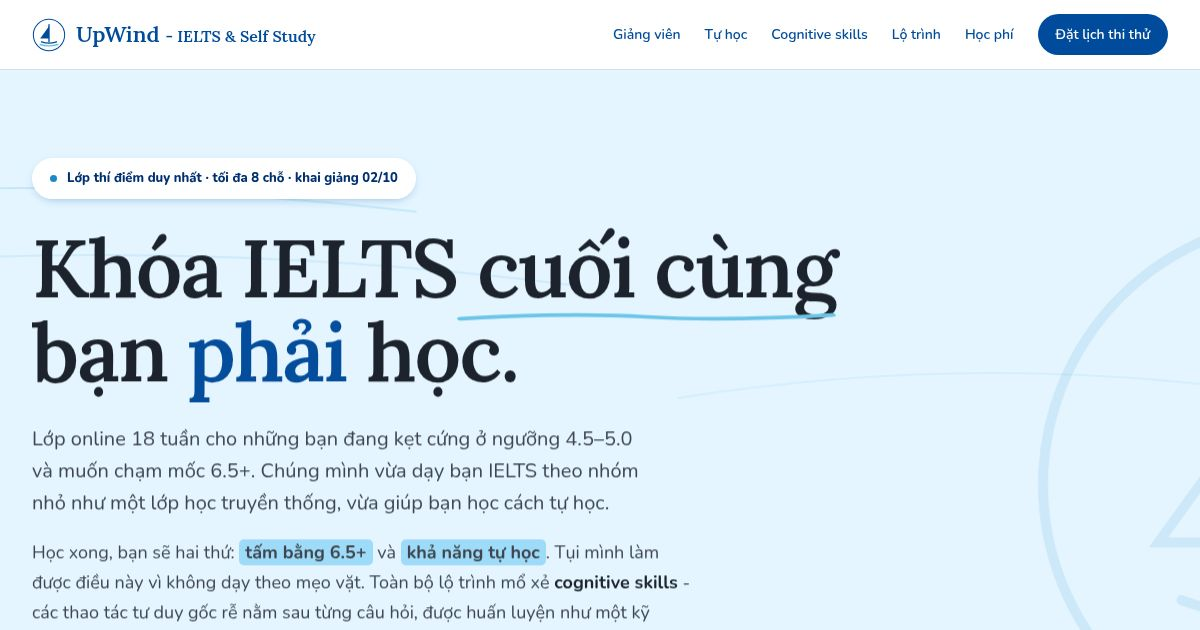
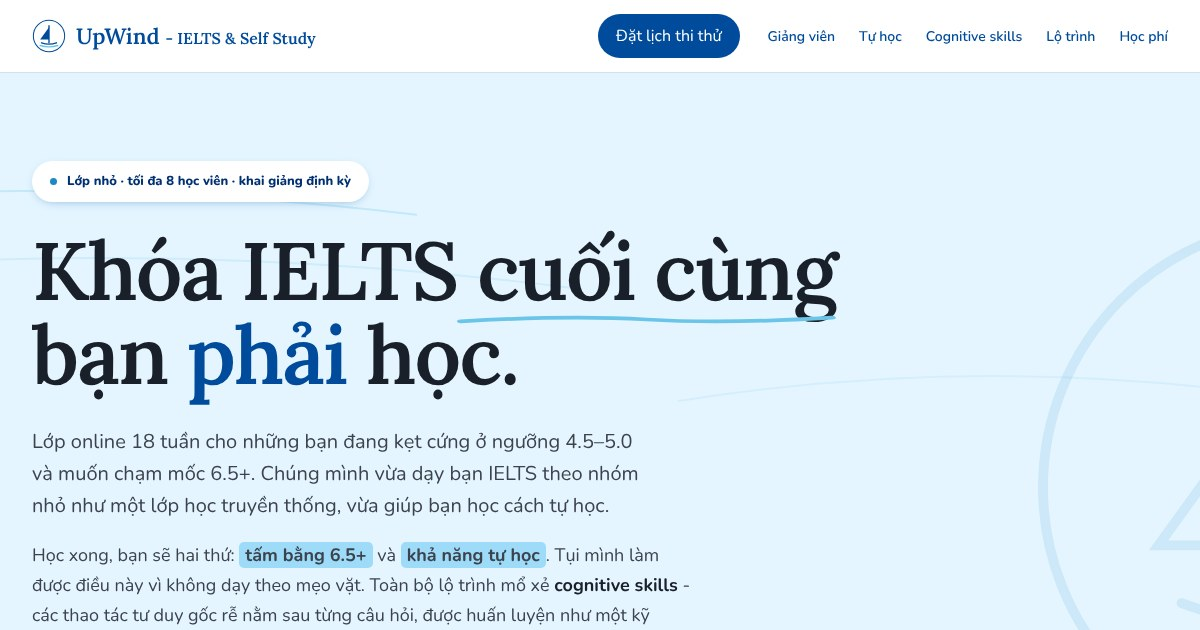
Make IELTS page evergreen for recurring cohorts
Remove the pilot-only claim, the 02/10 start date, the 22/9 price
deadline and the '7 seats left' count so the page can be shared for
any upcoming class. Regenerate the social preview from the new hero.

Claude-Session: https://claude.ai/code/session_01EuNgLEHTDqrSTDDk8AEMKw

diff --git a/src/ielts/Landing.tsx b/src/ielts/Landing.tsx
@@ -74,7 +74,7 @@ export default function Landing() {
           <div className="pad" style={{ position: "relative", maxWidth: 1240, margin: "0 auto", padding: "88px 32px 104px" }}>
             <span className="sticker" style={{ display: "inline-flex", alignItems: "center", gap: 10, background: "var(--color-upwind-bg)", color: "oklch(0.32 0.13 253)", fontSize: 13, fontWeight: 800, lineHeight: 1.45, padding: "11px 18px", borderRadius: 999, boxShadow: "0 3px 12px -6px oklch(0.42 0.15 253 / 0.6)" }}>
               <span style={{ width: 7, height: 7, borderRadius: 999, background: "var(--color-upwind-accent)", flex: "0 0 7px" }}></span>
-              <span>Lớp thí điểm duy nhất · tối đa 8 chỗ · khai giảng 02/10</span>
+              <span>Lớp nhỏ · tối đa 8 học viên · khai giảng định kỳ</span>
             </span>
             <h1 className="reveal" style={{ fontFamily: "var(--font-serif)", fontWeight: 600, fontSize: "clamp(42px, 6.8vw, 84px)", lineHeight: 1.03, letterSpacing: "-0.022em", margin: "26px 0 0", maxWidth: 940 }}>
               Khóa IELTS
@@ -515,7 +515,7 @@ export default function Landing() {
                 <span style={{ fontSize: 13, fontWeight: 800, letterSpacing: "0.06em", textTransform: "uppercase", color: "var(--color-upwind-accent)" }}>Học phí</span>
                 <h2 style={{ fontFamily: "var(--font-serif)", fontWeight: 600, fontSize: "clamp(40px, 5.4vw, 62px)", lineHeight: 1.02, letterSpacing: "-0.02em", margin: "14px 0 0" }}>6.750.000 ₫</h2>
                 <p style={{ fontSize: 15, lineHeight: "24px", margin: "12px 0 0", color: "var(--color-upwind-ink-2)" }}>
-                  <s style={{ opacity: 0.7 }}>7.750.000 ₫</s> · Mức dành riêng cho lớp đầu tiên, chốt trước <strong>22/9</strong>
+                  <s style={{ opacity: 0.7 }}>7.750.000 ₫</s> · Ưu đãi đăng ký sớm, hạn chốt thông báo theo từng khóa
                 </p>
                 <p style={{ fontSize: 17, lineHeight: "28px", margin: "18px 0 0", maxWidth: "34ch" }}>
                   Tính ra khoảng <strong style={{ fontWeight: 700 }}>128.500 ₫/giờ</strong> cho 52.5 giờ tương tác trực tiếp ở lớp 8 người.
@@ -546,7 +546,7 @@ export default function Landing() {
               Học thử 4 tuần. Thấy không hợp, bạn có thể học tiếp đến giữa khóa và <span style={{ position: "relative", whiteSpace: "nowrap" }}>dừng lại<svg viewBox="0 0 200 14" preserveAspectRatio="none" aria-hidden="true" style={{ position: "absolute", left: 0, right: 0, bottom: "-0.05em", width: "100%", height: "0.16em" }}><path d="M2 9 Q 60 2 100 7 T 198 5" fill="none" stroke="var(--color-upwind-yellow)" strokeWidth="4" strokeLinecap="round"></path></svg></span>.
             </h2>
             <p style={{ fontSize: 18, lineHeight: "30px", maxWidth: "50ch", margin: "24px 0 0", color: "var(--color-upwind-yellow)" }}>
-              UpWind là những lớp đầu tiên, tụi mình hiểu bạn chưa có lý do gì để tin ngay. Vì vậy, thay vì giống những trung tâm khác, tụi mình không thu toàn bộ học phí một lần. Bạn chỉ cần đóng nốt phần còn lại sau khi đã học thử 4 tuần. Hết 4 tuần nếu thấy không hợp lộ trình, bạn hoàn toàn có thể chọn học hết nửa khóa rồi nghỉ mà không cần đóng thêm.
+              UpWind còn là một lớp học mới, tụi mình hiểu bạn chưa có lý do gì để tin ngay. Vì vậy, thay vì giống những trung tâm khác, tụi mình không thu toàn bộ học phí một lần. Bạn chỉ cần đóng nốt phần còn lại sau khi đã học thử 4 tuần. Hết 4 tuần nếu thấy không hợp lộ trình, bạn hoàn toàn có thể chọn học hết nửa khóa rồi nghỉ mà không cần đóng thêm.
             </p>
           </div>
         </section>
@@ -614,7 +614,7 @@ export default function Landing() {
           </svg>
           <div className="reveal pad" style={{ maxWidth: 1240, margin: "0 auto", padding: "0 32px", display: "grid", gridTemplateColumns: "repeat(auto-fit, minmax(320px, 1fr))", gap: 64, alignItems: "center" }}>
             <div>
-              <h2 style={{ fontFamily: "var(--font-serif)", fontWeight: 600, fontSize: "clamp(34px, 4.4vw, 54px)", lineHeight: 1.1, letterSpacing: "-0.02em", margin: 0, color: "var(--color-upwind-bg)" }}>Còn <span style={{ color: "var(--color-upwind-yellow)" }}>7 chỗ</span> cho lớp thí điểm duy nhất, khai giảng dự kiến 02/10</h2>
+              <h2 style={{ fontFamily: "var(--font-serif)", fontWeight: 600, fontSize: "clamp(34px, 4.4vw, 54px)", lineHeight: 1.1, letterSpacing: "-0.02em", margin: 0, color: "var(--color-upwind-bg)" }}>Mỗi khóa tối đa <span style={{ color: "var(--color-upwind-yellow)" }}>8 chỗ</span>. Đặt lịch để giữ chỗ cho khóa gần nhất</h2>
               <div style={{ display: "flex", flexWrap: "wrap", gap: 14, marginTop: 36 }}>
                 <a className="cta" href="https://calendar.app.google/HNkKfyyWocDxwiE3A" target="_blank" rel="noreferrer" style={{ display: "inline-block", background: "var(--color-upwind-bg)", color: "var(--color-upwind-primary)", textDecoration: "none", fontSize: 16, fontWeight: 700, padding: "16px 28px", borderRadius: 999 }}>Đặt lịch thi thử miễn phí</a>
                 <a className="cta" href="https://zalo.me/84375810412" target="_blank" rel="noreferrer" style={{ display: "inline-block", background: "rgba(255,255,255,0.15)", color: "var(--color-upwind-bg)", textDecoration: "none", fontSize: 16, fontWeight: 700, padding: "16px 28px", borderRadius: 999 }}>Nhắn tin Zalo</a>
@@ -655,7 +655,7 @@ export default function Landing() {
       <div className="bar" id="stickybar">
         <div style={{ background: "var(--color-upwind-primary)", borderRadius: 20, padding: "12px 14px", display: "flex", alignItems: "center", gap: 12, boxShadow: "0 18px 40px -18px oklch(0.24 0.02 260 / 0.7)" }}>
           <div style={{ flex: 1, minWidth: 0, color: "var(--color-upwind-bg)" }}>
-            <div style={{ fontSize: 13, fontWeight: 800 }}>Còn 7 chỗ · khai giảng 02/10</div>
+            <div style={{ fontSize: 13, fontWeight: 800 }}>Tối đa 8 chỗ · khai giảng định kỳ</div>
             <div style={{ fontSize: 12, color: "var(--color-upwind-highlight)" }}>Test chẩn đoán 20 phút, miễn phí</div>
           </div>
           <a className="cta" href="https://calendar.app.google/HNkKfyyWocDxwiE3A" target="_blank" rel="noreferrer" style={{ background: "var(--color-upwind-bg)", color: "var(--color-upwind-primary)", textDecoration: "none", fontSize: 14, fontWeight: 700, padding: "12px 16px", borderRadius: 999, whiteSpace: "nowrap" }}>Đặt lịch thi thử</a>
